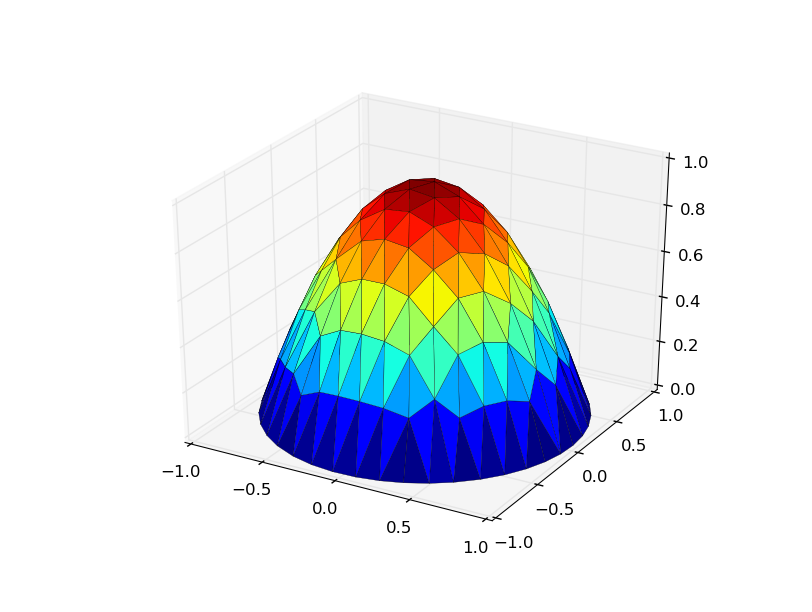
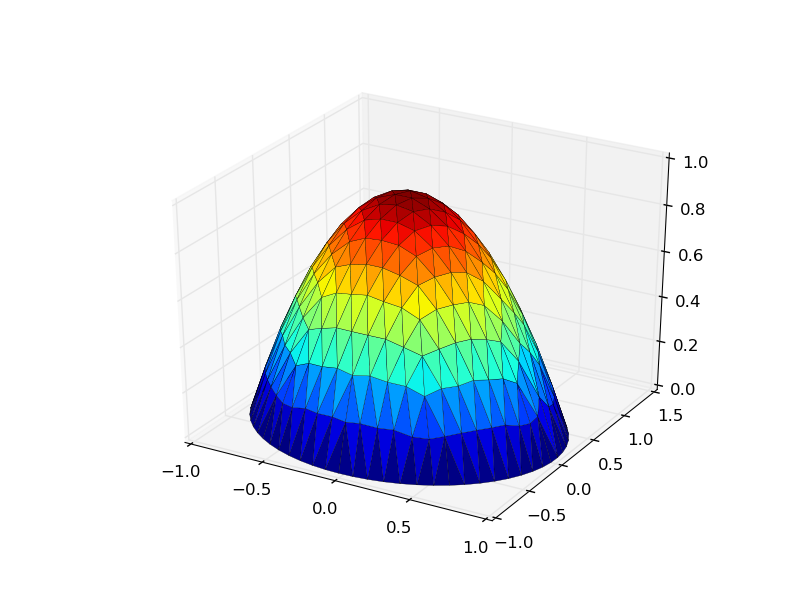
clean up readme and show more results

Changed region(s): [[0.3079, 0.2794, 0.7389, 0.8693], [0.7697, 0.7141, 0.8005, 0.7451], [0.7389, 0.7451, 0.7697, 0.7761]]

diff --git a/fem_examples.py b/fem_examples.py
@@ -41,14 +41,9 @@ def ex_disc_refine(h0):
     plt.subplot(1,2,1)
     plotmesh(pts, mytri)
     plt.title('original mesh')
-    print "  refining once ..."
-    rpone, rtone, e, ind = bdyrefine(pts,mytri,fd_disc,h0)
-    roneedges, tmp = edgelist(rpone,rtone)
-    print "  first refined mesh has %d nodes and %d edges" % (np.shape(rpone)[0],np.shape(roneedges)[0])
-    print "  refining again ..."
-    rp, rt, e, ind = bdyrefine(rpone,rtone,fd_disc,h0)
+    rp, rt, e, ind = bdyrefine(pts,mytri,fd_disc,h0)
     redges, tmp = edgelist(rp,rt)
-    print "  final refined mesh has %d nodes and %d edges" % (np.shape(rp)[0],np.shape(redges)[0])
+    print "  refined mesh has %d nodes and %d edges" % (np.shape(rp)[0],np.shape(redges)[0])
     plt.subplot(1,2,2)
     plotmesh(rp, rt)
     plt.title('final refined mesh')

diff --git a/README.md b/README.md
@@ -1,16 +1,32 @@
 py_fem_distmesh2d
 =================
 
-A self-contained finite element example using Python and scipy and matplotlib.
+A self-contained 2D finite element examples using Python and scipy and matplotlib.
 
-The codes `py_distmesh2d.py` and `mesh_examples.py` are from [py_distmesh2d](https://github.com/ckhroulev/py_distmesh2d) by Constantine Khroulev.  They are a Python re-implementation of `distmesh2d` in *P.-O. Persson, G. Strang, A Simple Mesh Generator in MATLAB. SIAM Review, Volume 46 (2), pp. 329-345, June 2004* (http://persson.berkeley.edu/distmesh/).
+The codes `py_distmesh2d.py` and `mesh_examples.py` are from [py_distmesh2d](https://github.com/ckhroulev/py_distmesh2d) by Constantine Khroulev.  They are a Python re-implementation of `distmesh2d` in *P.-O. Persson and G. Strang, A Simple Mesh Generator in MATLAB. SIAM Review, Volume 46 (2), pp. 329-345, June 2004* (http://persson.berkeley.edu/distmesh/).
 
-Several tools in `meshtools.py` and also `poisson.py` are Python re-implementations of codes from the [Math 692 one-page Matlab FEM code challenge](http://www.dms.uaf.edu/~bueler/challenge.htm), which dates to Fall 2004.  These tools include `fixmesh`, `edgelist`, and `bdyrefine`.
+What's new?:
 
-To demo:
+* `meshtools.py`: Python re-implementations of codes from the [Math 692 one-page Matlab FEM code challenge](http://www.dms.uaf.edu/~bueler/challenge.htm), which dates to Fall 2004.  These tools include `fixmesh`, `edgelist`, and `bdyrefine`
+
+* `cg.py`: Boring implementation of the conjugate gradient method.  See *H. Elman, D. Silvester, and A. Wathen, Finite Elements and Fast Iterative Solvers with applications in incompressible fluid dynamics.  Oxford 2005.*
+
+* `poisson.py`: Assemble and solve Poisson equation del^2 u = f.
+
+* `obstacle.py`: Solve the obstacle problem associated to the Poisson equation.
+
+Demos:
 
     $ python fem_examples.py
 
-It gives this solution plot:
+gives the first solution plot, and
+
+    $ python obstacle_example.py
+
+gives the second and third plots.  The second plot shows the solution with a spherical obstacle.  The third plot shows in red those nodes which meet (touch) the obstacle.
 
 ![disc solution](https://github.com/bueler/py_fem_distmesh2d/raw/master/ex_disc_soln.png)
+
+![spherical obstacle: solution](https://github.com/bueler/py_fem_distmesh2d/raw/master/ex_obs_soln.png)
+
+![spherical obstacle: coincidence set](https://github.com/bueler/py_fem_distmesh2d/raw/master/ex_obs_coincidence.png)
